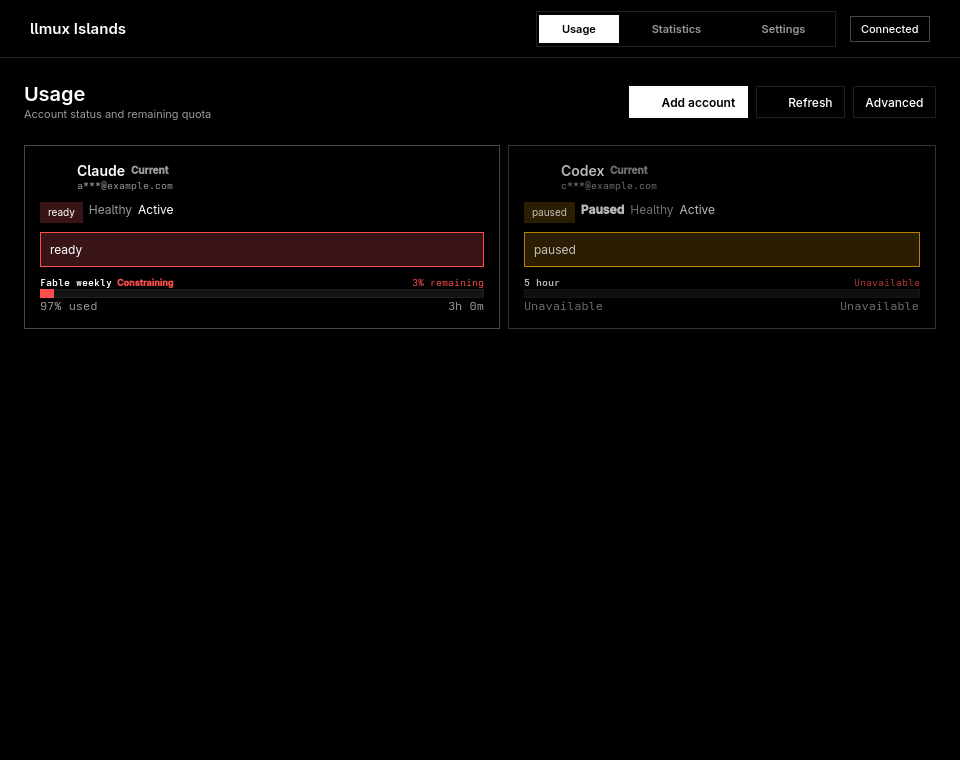
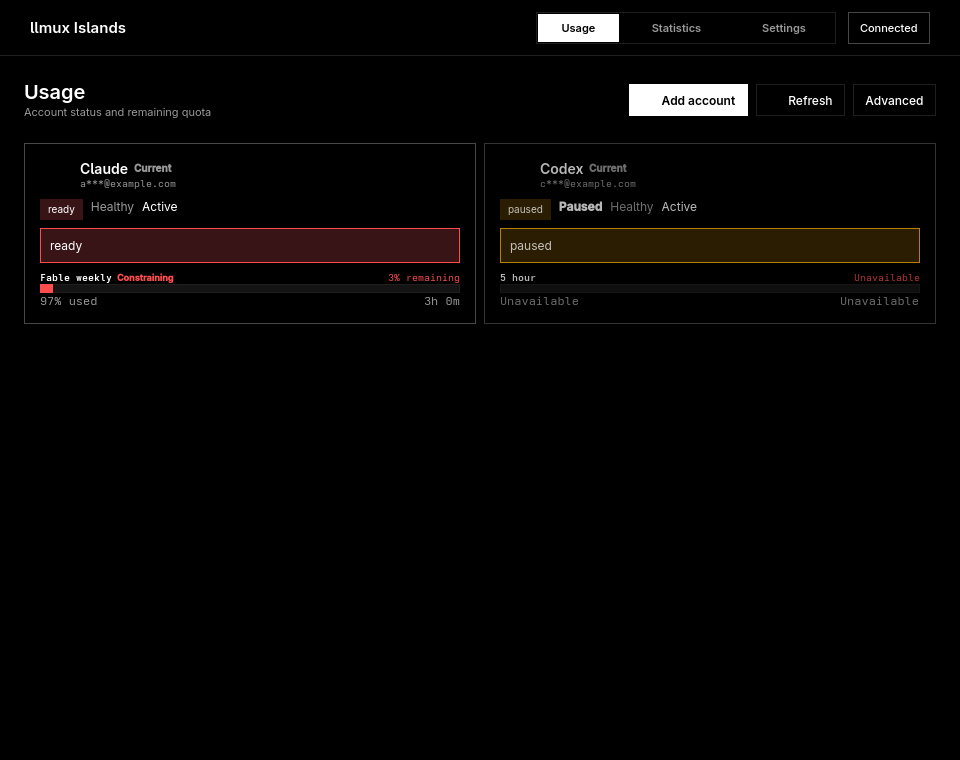
docs(islands): refresh asymmetric visual receipts

diff --git a/.prd/docs/llmux-islands-linux-port/visual-receipts/README.md b/.prd/docs/llmux-islands-linux-port/visual-receipts/README.md
@@ -1,41 +1,45 @@
 # macOS and KDE visual receipts
 
-These 14 PNGs are durable, reviewable evidence for the renewed native macOS
-shell and Arch Linux/KDE port. They were captured from the production
-renderers with byte-identical, deterministic, privacy-masked dashboard
-fixtures by [Islands parity run 29391046261](https://github.com/2lab-ai/llmux/actions/runs/29391046261)
-from source tree
-[`9e0d5a388559a1ad7ef4b48c6827d68591e67be4`](https://github.com/2lab-ai/llmux/commit/9e0d5a388559a1ad7ef4b48c6827d68591e67be4).
-That Islands source was replayed content-identically as
-[`1365ec68992c16bb0014c325dbe0971b2357c88d`](https://github.com/2lab-ai/llmux/commit/1365ec68992c16bb0014c325dbe0971b2357c88d)
-on current master `abd68fb671b5b093480adc11c7ab7a1096ecf873`.
-The run Xcode-tested the macOS app and built, packaged, installed, and
-smoke-tested the KDE shell in a clean Arch environment before publishing the
-`llmux-islands-macos-snapshots` and `llmux-islands-kde-snapshots` artifacts.
+These 11 PNGs are durable production-renderer evidence for the asymmetric
+presentation contract: macOS preserves its pre-renewal native UI, while KDE
+uses the aligned monochrome OpenAI-style shell and keeps infrequent controls in
+Linux-only `Advanced` disclosures.
 
-Both renderers use the same masked dashboard document. Account email addresses
-are anonymized, API keys and request/response bodies are excluded, and unsafe
-note content is rendered as `[REDACTED]`. The receipt captures expose only
-request metadata and a successful settings-mutation daemon-readback receipt.
+The files came from [Islands parity run
+29397360302](https://github.com/2lab-ai/llmux/actions/runs/29397360302) at source
+commit
+[`7c321ff908ce6ed4d544d2c76a2f30130cb3ea9a`](https://github.com/2lab-ai/llmux/commit/7c321ff908ce6ed4d544d2c76a2f30130cb3ea9a).
+That run passed the semantic core, generated and Xcode-tested the macOS app,
+and built, packaged, installed, and smoke-tested the KDE shell in clean Arch
+before uploading both screenshot artifacts.
+
+The four macOS files are byte-identical to the corresponding captures from the
+[`57df760cb57ba811d2a29bcddeb149eb7c4a04ad`](https://github.com/2lab-ai/llmux/commit/57df760cb57ba811d2a29bcddeb149eb7c4a04ad)
+pre-renewal presentation boundary. macOS therefore has no synthetic
+`Advanced` screenshots. KDE supplies default/Advanced full-shell pairs for its
+three routes plus a readable receipt surface.
+
+Both renderers use the same deterministic, privacy-masked dashboard fixture.
+Account email addresses are anonymized, API keys and request/response bodies
+are excluded, and unsafe note content is rendered as `[REDACTED]`. Receipt
+captures expose only request metadata and a successful settings-mutation
+daemon-readback receipt.
 
 | Platform | Surface | File | Dimensions | SHA-256 |
 |---|---|---|---:|---|
[25 lines of base64/hex data omitted]
 
-All 14 files were checked against their CI artifact manifests. Each platform's
-seven PNGs have distinct SHA-256 values, and every file was inspected at original
-resolution for complete shell chrome, content bounds, default/Advanced
-hierarchy, receipt visibility, masking, and secret exclusion.
+All 11 hashes match their CI artifact manifests. Every PNG was inspected at
+original resolution for complete shell chrome, content bounds, masking,
+receipt visibility, default/Advanced hierarchy where applicable, and secret
+exclusion.

diff --git a/.prd/docs/llmux-islands-linux-port/trace.md b/.prd/docs/llmux-islands-linux-port/trace.md
@@ -327,15 +327,15 @@ repository build gate.
 | Rust protocol/reducer core | Verified through T4 HTTP/effect boundary | 46 contract/fixture/reducer/HTTP tests cover state, routes, HTTPS/auth, redirects, privacy handles and free-text masking, window lifecycle, cancellation/deadline races, bounded retry, refresh ordering, receipts, and typed effects |
 | T4 settings/events/autostart | Verified at adapter boundary | Daemon settings/events plus private atomic settings, symlink-safe idempotent XDG autostart, validation, and terminal receipts |
 | KDE Qt/QML shell | Verified in clean Arch container | Usage, Statistics, Menu, tray, canonical controller, semantic dispatch, static QML resource registration, and bounded offscreen smoke all execute |
-| macOS C ABI | Verified at native caller boundary | Eleven Rust ABI tests cover every action/effect family, request correlation, opaque ids, secrets, platform-state persistence, invalid buffers, panic containment, and ownership; a target-14 C caller links and runs with linker warnings fatal, and its load command reports `minos 14.0` |
-| macOS SwiftUI/AppKit shell | Shared-core runtime integrated | Strict schema decoder, C ABI ownership wrapper, canonical projections, executor effects, hardened endpoint policy, and Xcode build integration; macOS CI is the authoritative full build because this development host has Command Line Tools but not Xcode |
+| macOS C ABI | Verified at native caller boundary | Twelve Rust ABI tests cover every action/effect family, request correlation, opaque ids, secrets, platform-state persistence, invalid buffers, panic containment, and ownership; a target-14 C caller links and runs with linker warnings fatal, and its load command reports `minos 14.0` |
+| macOS SwiftUI/AppKit shell | Verified in macOS CI | Strict schema decoder, C ABI ownership wrapper, canonical projections, executor effects, hardened endpoint policy, Xcode build integration, tests, and original production-renderer captures pass |
 | Tray/layer-shell/notifications | Verified at adapter/build boundary with platform fallbacks | Qt `SystemTrayIcon` with Plasma StatusNotifierItem backend and native message activation, LayerShellQt Wayland, positioned X11, regular fallback, freedesktop sound |
 | Arch maintenance/package | Verified fail-closed | Pacman instruction-only, absolute Linuxbrew delegation, protected checksum primitive, and an unprivileged `makepkg` release build followed by package installation and installed-binary smoke in the clean Arch image |
-| Native presentation boundary | Implemented; visual CI receipt pending | macOS view/model/snapshot/project files are restored to the `57df760` boundary; Linux token tests cover 24px gutters, 32px controls, 8px peer gaps, equal-width data cells, and 104px+16px forms |
-| Runtime parity | Local contract verification complete; clean-platform re-verification pending | GitHub Actions remains authoritative for Xcode/XCTest, Qt/QML, Arch packaging, smoke, and final renderer captures; local commands are capped at `-j 2` and do not use Docker |
+| Native presentation boundary | Verified with visual CI receipts | macOS's four required files are byte-identical to the `57df760` captures; Linux's seven inspected files show the 24px gutters, 32px controls, 8px peer/action gaps, equal-width data cells, 104px+16px forms, and Linux-only Advanced hierarchy |
+| Runtime parity | Verified locally and on clean-platform CI | Local checks used `-j 2` without Docker; GitHub Actions passed Xcode/XCTest, Qt/QML, clean Arch packaging/install/smoke, both renderer captures, and general Ubuntu/macOS checks at `7c321ff` |
 
 Verification receipt (2026-07-14): the shared core passes 46 contract, fixture,
-reducer, and HTTP tests; the macOS bridge passes eleven ABI tests plus its native
+reducer, and HTTP tests; the macOS bridge passes twelve ABI tests plus its native
 C smoke executable; the Linux crate passed 85 tests both locally and in a fresh
 Arch container before the alignment contract was added. The current workspace
 baseline passes 845 unit tests and 38 E2E tests (one ignored by design).
@@ -353,12 +353,16 @@ component bindings. Full Xcode/XCTest and Qt renderer verification remain
 CI-authoritative because this host has Command Line Tools but no Qt installation
 or full Xcode.
 
-The clean Arch gate is configured to produce seven real captures: Usage and
-Usage Advanced, Statistics and Statistics Advanced, Settings and Settings
-Advanced, plus a receipt-detail crop. The macOS gate requires its original
-Usage, Statistics, and Menu full-surface proofs plus a receipt-detail crop, and
-may include supporting Statistics crops. Each artifact carries `SHA256SUMS`;
-final run-specific hashes and inspected PNGs belong in `visual-receipts/`.
+Final T6 CI receipt (2026-07-15): [Islands parity run
+29397360302](https://github.com/2lab-ai/llmux/actions/runs/29397360302)
+passed semantic core, macOS shared-core shell, and clean Arch KDE shell at
+`7c321ff908ce6ed4d544d2c76a2f30130cb3ea9a`. [General CI run
+29397360254](https://github.com/2lab-ai/llmux/actions/runs/29397360254)
+also passed on Ubuntu and macOS. Both artifact manifests were verified. The
+four macOS required PNGs exactly match the historical pre-renewal SHA-256
+values, and the seven KDE PNGs were inspected at original resolution for
+complete chrome, geometry, disclosure hierarchy, receipts, and masking. The
+final dimensions and hashes are recorded in `visual-receipts/README.md`.
 
 ## Required file map
 
